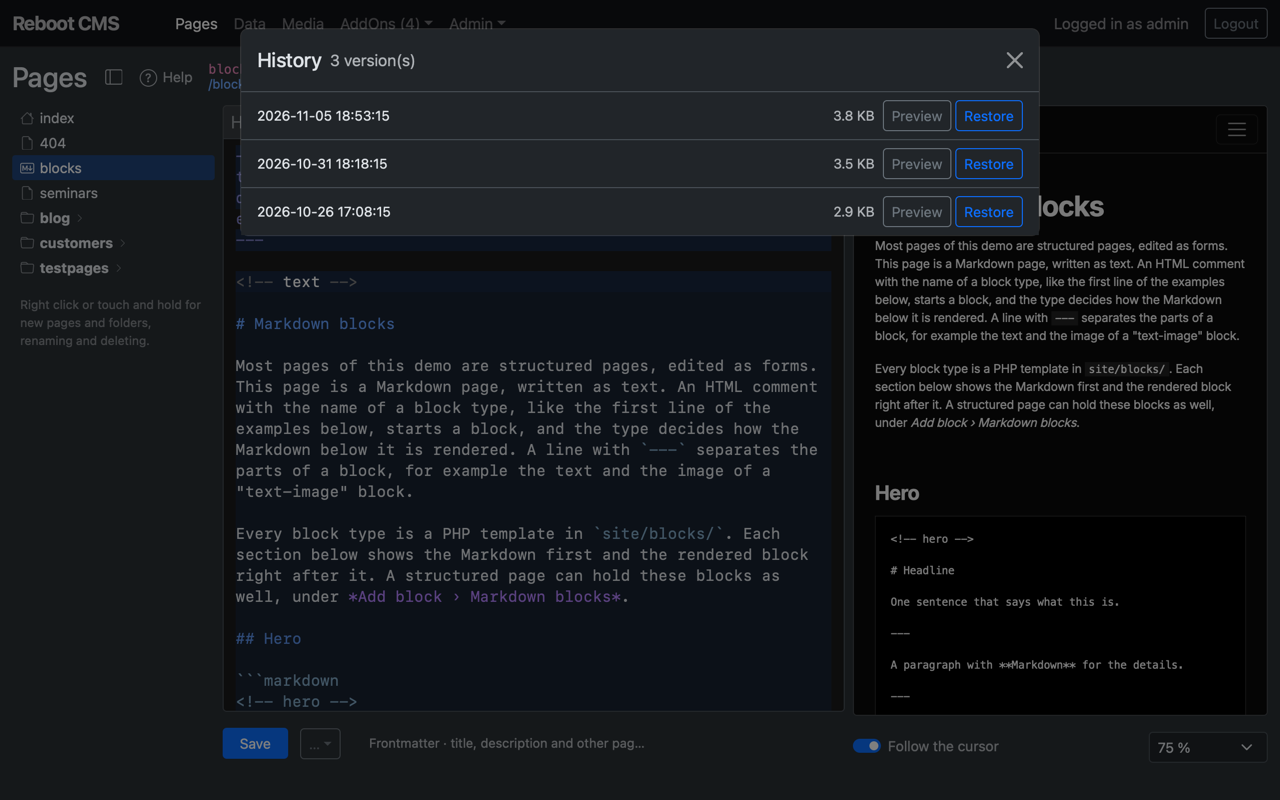
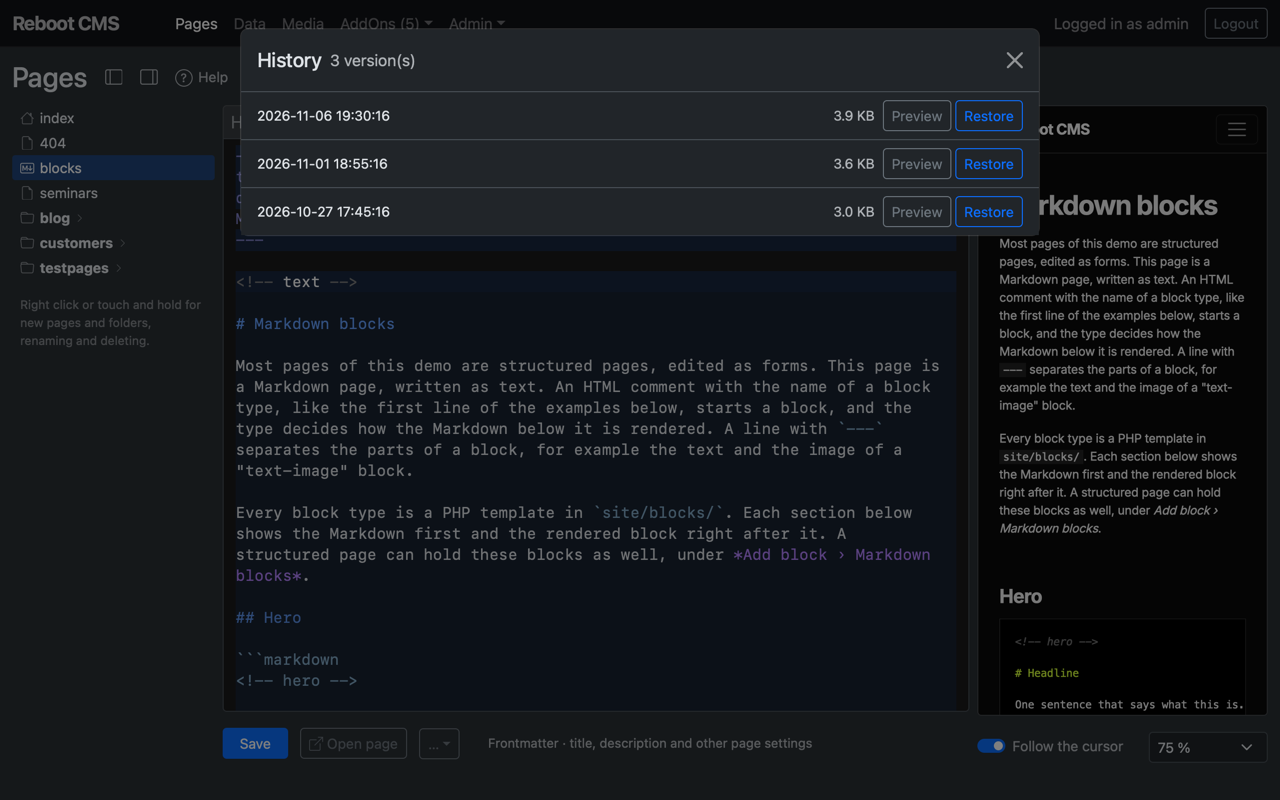
New demo content for Reboot CMS 4, new admin screenshots
- Start page: intro with screenshot, pages as forms, data apart from pages, the next seminars as an example, gallery of eight admin views
- Seminars page in the navigation, with a spotlight on one entry
- Blog post "What is new in Reboot CMS 4", older posts and seminars updated to structured pages and form blocks
- README: why another CMS and working with AI agents updated to version 4
- CSS: two light bands in a row form one band, a gallery of more than four images wraps into rows
- Admin screenshots taken with webkit-pilot, capture script takes the Markdown blocks page as well

diff --git a/web/assets/styles/screen.css b/web/assets/styles/screen.css
@@ -335,6 +335,15 @@ main > .block-inverse:not(.block-hero):not(.block-intro):first-child {
     padding-top: calc(63px + var(--band-padding));
 }
 
+/* two light surfaces in a row are one band, without a dark gap between them */
+:is(.block-hero, .block-intro, .block-inverse):not(:is(.block-hero, .block-intro).block-inverse):has(+ :is(.block-hero, .block-intro, .block-inverse):not(:is(.block-hero, .block-intro).block-inverse)) {
+    margin-bottom: 0;
+}
+
+:is(.block-hero, .block-intro, .block-inverse):not(:is(.block-hero, .block-intro).block-inverse) + :is(.block-hero, .block-intro, .block-inverse):not(:is(.block-hero, .block-intro).block-inverse) {
+    padding-top: 0;
+}
+
 .block-hero .card {
     background: transparent !important;
     color: inherit;
@@ -473,6 +482,32 @@ main > .block-inverse:not(.block-hero):not(.block-intro):first-child {
     .block-cards .card + .card,
     .block-gallery .card + .card {
         border-left: 1px solid var(--line) !important;
+    }
+}
+
+/* a gallery of more than four images wraps into rows, two or four images wide */
+@media (min-width: 576px) {
+    .block-gallery .card-group:has(> .card:nth-child(5)) {
+        display: grid;
+        grid-template-columns: repeat(2, 1fr);
+    }
+
+    .block-gallery .card-group:has(> .card:nth-child(5)) > .card:nth-child(2n+1) {
+        border-left: 0 !important;
+    }
+}
+
+@media (min-width: 992px) {
+    .block-gallery .card-group:has(> .card:nth-child(5)) {
+        grid-template-columns: repeat(4, 1fr);
+    }
+
+    .block-gallery .card-group:has(> .card:nth-child(5)) > .card:nth-child(2n+1) {
+        border-left: 1px solid var(--line) !important;
+    }
+
+    .block-gallery .card-group:has(> .card:nth-child(5)) > .card:nth-child(4n+1) {
+        border-left: 0 !important;
     }
 }
 

diff --git a/README.md b/README.md
@@ -11,28 +11,21 @@ Reboot CMS is a minimal CMS without a database. A page is a list of **blocks**, 
 
 ## Why another CMS?
 
-I developed Reboot CMS because I couldn't find a CMS that works with flat markdown files but allows easy use of blocks.
+I developed Reboot CMS because I couldn't find a CMS that works with flat files but allows easy use of blocks. Since version 4 a block is a small form, so editors fill in fields and the design stays as the designer made it.
 
-Reboot CMS is very small and the pages are delivered extremely fast. My website [shaack.com](https://shaack.com), built
-with Reboot CMS, has a [PageSpeed Insights performance score of 100](https://pagespeed.web.dev/report?url=https%3A%2F%2Fshaack.com%2F).
+Reboot CMS is very small and the pages are delivered extremely fast. My website [shaack.com](https://shaack.com), built with Reboot CMS, has a [PageSpeed Insights performance score of 100](https://pagespeed.web.dev/report?url=https%3A%2F%2Fshaack.com%2F).
 
 ## Working with AI agents
 
-Reboot CMS works well with AI coding assistants, because its architecture maps
-onto what an agent can reliably reason about:
+Reboot CMS works well with AI coding assistants, because its architecture maps onto what an agent can reliably reason about:
 
-- **Flat Markdown files, no database** — content is edited directly as text;
-  there is no schema, no migrations, and no admin API to learn.
-- **File equals URL** — the page for `/about` is always `site/pages/about.md`,
-  so an agent locates content without crawling routes.
-- **Small, transparent core** — the CMS classes (`Reboot`, `Site`, `Page`,
-  `Block`, `Request`) are short enough to fit a model's context window.
-- **Blocks are plain PHP files** — a new block type is a single file in
-  `site/blocks/`, with no framework or build step in between.
-- **Everything is text under Git** — every change is a reviewable diff.
+- **Flat files, no database.** Pages are short YAML files or Markdown, data entries are Markdown files with frontmatter. Content is edited directly as text, there are no migrations and no admin API to learn.
+- **File equals URL.** The page for `/about` is always `site/pages/about.yml` (or `about.md`), so an agent locates content without crawling routes.
+- **Small, transparent core.** The CMS classes (`Reboot`, `Site`, `Page`, `Block`, `Collection`, `Request`) are short enough to fit a model's context window.
+- **Blocks are plain PHP and YAML.** A block type is a folder in `site/blocks/` with a PHP template and a blueprint that names its fields, with no framework or build step in between.
+- **Everything is text under Git.** Every change is a reviewable diff.
 
-The repository includes an [`AGENTS.md`](AGENTS.md) that orients AI agents
-working on a Reboot CMS project.
+The repository includes an [`AGENTS.md`](AGENTS.md) that orients AI agents working on a Reboot CMS project.
 
 ## Websites using Reboot CMS
 
@@ -243,9 +236,7 @@ Ut enim ad minim [veniam](/), quis nostrud exercitation ullamco laboris nisi ut 
 Lorem ipsum dolor sit amet, consectetur adipisicing elit, sed do eiusmod tempor incididunt ut labore et dolore magna aliqua.
 ```
 
-This `Page` contains 3 `Block` types, "hero", "text-image" and "three-columns". It will render to this:
-
-![A rendered page](web/media/screenshots/reboot-cms-index.png)
+This `Page` contains 3 `Block` types, "hero", "text-image" and "three-columns". The page [`site/pages/blocks.md`](site/pages/blocks.md) of the demo shows each of them with the Markdown that produces it.
 
 Blocks can be configured in the block comment. With this configuration, the `text-image`
 block allows to display the image to the left side in desktop view.

diff --git a/site/data/blog/2026-11-08-reboot-cms-4.md b/site/data/blog/2026-11-08-reboot-cms-4.md
@@ -1,0 +1,44 @@
+---
+title: What is new in Reboot CMS 4
+description: Pages made of form blocks, data apart from the pages, entries that are pages of their own. And Markdown keeps working.
+date: 2026-11-08
+links: |
+  - [Upgrading to Reboot CMS 4](https://github.com/shaack/reboot-cms/blob/main-4/docs/upgrade-to-4.md)
+  - [Structure for editors, freedom for designers](blog/2026-10-12-structure-for-editors-freedom-for-designers)
+  - [Seminars, an example of data](seminars)
+  - [Documentation](documentation)
+---
+
+Reboot CMS started as a Markdown CMS with blocks. A page was a text file, and HTML comments split it into blocks that templates rendered. That still works. Version 4 adds a second way to build a page, and it becomes the default: a page made of blocks that are forms.
+
+## Pages made of form blocks
+
+A structured page is a short YAML file, `site/pages/about.yml` for the address `/about`. It holds a title, a description and a list of blocks. Each block has a type and the values of its fields, a heading, a text, an image or a list of features.
+
+A block type is a folder in `site/blocks/` with two files. The blueprint names the fields, the PHP template places them in the HTML. The admin builds the form from the blueprint, a panel per block, and shows a live preview next to it that follows the field being edited. Editors fill in content, and the layout stays as the designer made it.
+
+## Data apart from the pages
+
+Some content is no page at all. Seminars, team members, products and blog posts are records with the same fields again and again. In Reboot CMS 4 they live in `site/data/`, one Markdown file per entry, described by a blueprint in `site/blueprints/`. The admin has a new section *Data* that lists them as a table and edits them as forms.
+
+Blocks query the entries. The start page of this demo shows the next three [seminars](seminars), and a seminar that has passed drops out by itself. Change a price in *Data*, and every page that shows the seminar is up to date.
+
+## Entries that are pages
+
+With `url: blog` in its blueprint, every entry of a collection becomes a page at `/blog/<slug>`, rendered by a template next to the blueprint. The post you are reading works like that. It is a file in `site/data/blog/`, not a page in `site/pages/`.
+
+## Markdown keeps working
+
+Nothing of an existing site has to change. Markdown pages, their blocks and their frontmatter work as before, and the admin still creates them on request. A Markdown block can even sit inside a structured page. When a site is ready for forms, the admin converts a Markdown page into a structured page at the same address, and the old file stays in the history.
+
+## Smaller things
+
+Every save of a page keeps the previous version in the history, for structured pages as well. AddOns are folders now, with their own helpers and admin pages. A new AddOn colors the code blocks of a page on the server, the one below for example:
+
+```bash
+git clone https://github.com/shaack/reboot-cms.git my-site
+cd my-site
+./run.sh
+```
+
+Reboot CMS 4 is a major update, and the updater of version 3 does not install it. The [upgrade guide](https://github.com/shaack/reboot-cms/blob/main-4/docs/upgrade-to-4.md) lists the steps. Version 3 keeps getting security fixes, so there is no hurry.

diff --git a/site/data/blog/2026-09-14-your-content-your-files.md b/site/data/blog/2026-09-14-your-content-your-files.md
@@ -11,11 +11,11 @@ links: |
 
 Most content management systems keep your texts in a database. That sounds harmless until the day you want to leave. Then the content sits in tables only that one system understands, wrapped in its markup, its shortcodes and its plugins. Moving it means an export, a migration script and a long weekend.
 
-Reboot CMS takes the opposite route. Every page is a Markdown file, and the path of the file is the address of the page. The text you write is the text that is stored. There is nothing in between that you would have to translate later.
+Reboot CMS takes the opposite route. Every page is a text file, a short YAML file with the blocks of the page or a Markdown file, and the path of the file is the address of the page. The text you write is the text that is stored. There is nothing in between that you would have to translate later.
 
 ## Ownership you can see
 
-Open the folder `site/pages/` and you see your website. A page about pricing is `pricing.md`, a post in this blog is a file in `blog/`. Any editor opens it, any search finds it, and it reads as well in ten years as it does today.
+Open the folder `site/pages/` and you see your website. A page about pricing is `pricing.yml`, and next to it, in `site/data/blog/`, every post of this blog is a file of its own. Any editor opens it, any search finds it, and it reads as well in ten years as it does today.
 
 That changes how a website feels to its owner. Content is no longer something the CMS holds for you. It is a folder you have, like the photos on your computer.
 
@@ -27,6 +27,6 @@ For those who prefer a browser, the admin keeps its own history of every page as
 
 ## No lock-in, by design
 
-The day you outgrow Reboot CMS, your content comes with you. Markdown is understood by static site generators, by other flat file systems, by documentation tools and by every AI model. Nothing has to be exported, because nothing was ever locked in.
+The day you outgrow Reboot CMS, your content comes with you. YAML and Markdown are read by static site generators, by other flat file systems, by documentation tools and by every AI model. Nothing has to be exported, because nothing was ever locked in.
 
 That is the quiet promise of a flat file CMS. The software is replaceable, your content is not, and it stays where you put it.

diff --git a/site/data/blog/2026-10-01-fast-pages-without-tuning.md b/site/data/blog/2026-10-01-fast-pages-without-tuning.md
@@ -15,7 +15,7 @@ The usual answer is tuning. A caching plugin, an image optimizer, a CDN, a secon
 
 ## Fast because there is less
 
-Reboot CMS starts from the other end. There is no database to ask, no framework to boot and no plugin chain to run. A request reads one Markdown file, renders it into the template and sends it out. That takes a few milliseconds on ordinary shared hosting.
+Reboot CMS starts from the other end. There is no database to ask, no framework to boot and no plugin chain to run. A request reads one text file, renders its blocks into the template and sends it out. That takes a few milliseconds on ordinary shared hosting.
 
 What reaches the browser is what you put into the template. No admin scripts, no tracking you did not choose, no stylesheet for features the page does not use. The demo you are looking at loads Bootstrap and one small stylesheet, and that is all.
 

diff --git a/site/data/seminars/2026-12-05-markdown-for-editors.md b/site/data/seminars/2026-12-05-markdown-for-editors.md
@@ -5,12 +5,12 @@ location: Bremen
 level: Beginner
 price: 190
 seats: 8
-teaser: Headings, lists, links and images. Everything an editor needs to write pages in Reboot CMS.
+teaser: Blocks, fields and a little Markdown. Everything an editor needs to fill the pages of a Reboot CMS site.
 link: mailto:seminars@example.com?subject=Markdown%20for%20Editors
 ---
 
 A hands-on day for everyone who writes the content of a website. No technical background is needed.
 
-- Headings, emphasis, lists and links
-- Images and where they live
 - How blocks give a page its structure
+- Headings, emphasis, lists and links in Markdown
+- Images, the media library and the history of a page

diff --git a/site/data/seminars/2027-01-23-building-blocks.md b/site/data/seminars/2027-01-23-building-blocks.md
@@ -5,8 +5,8 @@ location: Hamburg
 level: Intermediate
 price: 290
 seats: 5
-teaser: Write your own block templates in PHP and query the Markdown with XPath.
+teaser: Write your own form blocks, a blueprint for the fields and a PHP template for the layout.
 link: mailto:seminars@example.com?subject=Building%20Blocks
 ---
 
-From the first `site/blocks/` file to a block with validation and examples for the admin. Bring a laptop with PHP 8.1 or Podman.
+From the first folder in `site/blocks/` to a block with lists, images and entries of a collection. Bring a laptop with PHP 8.1 or Podman.

diff --git a/docs/screenshots.md b/docs/screenshots.md
@@ -40,6 +40,7 @@ BASE=http://localhost:21007 ADMIN_USER=admin ADMIN_PASSWORD=... \
 | Screenshot | Page |
 |---|---|
 | `reboot-cms-index.png` | Front page of the demo |
+| `reboot-cms-markdown-blocks.png` | The Markdown page `blocks`, the Markdown of the hero block and the block it renders to |
 | `reboot-cms-blog-article.png` | A blog article with its box of links |
 | `reboot-cms-lightbox.png` | The gallery with an enlarged image |
 | `reboot-cms-admin-login.png` | Admin login |
